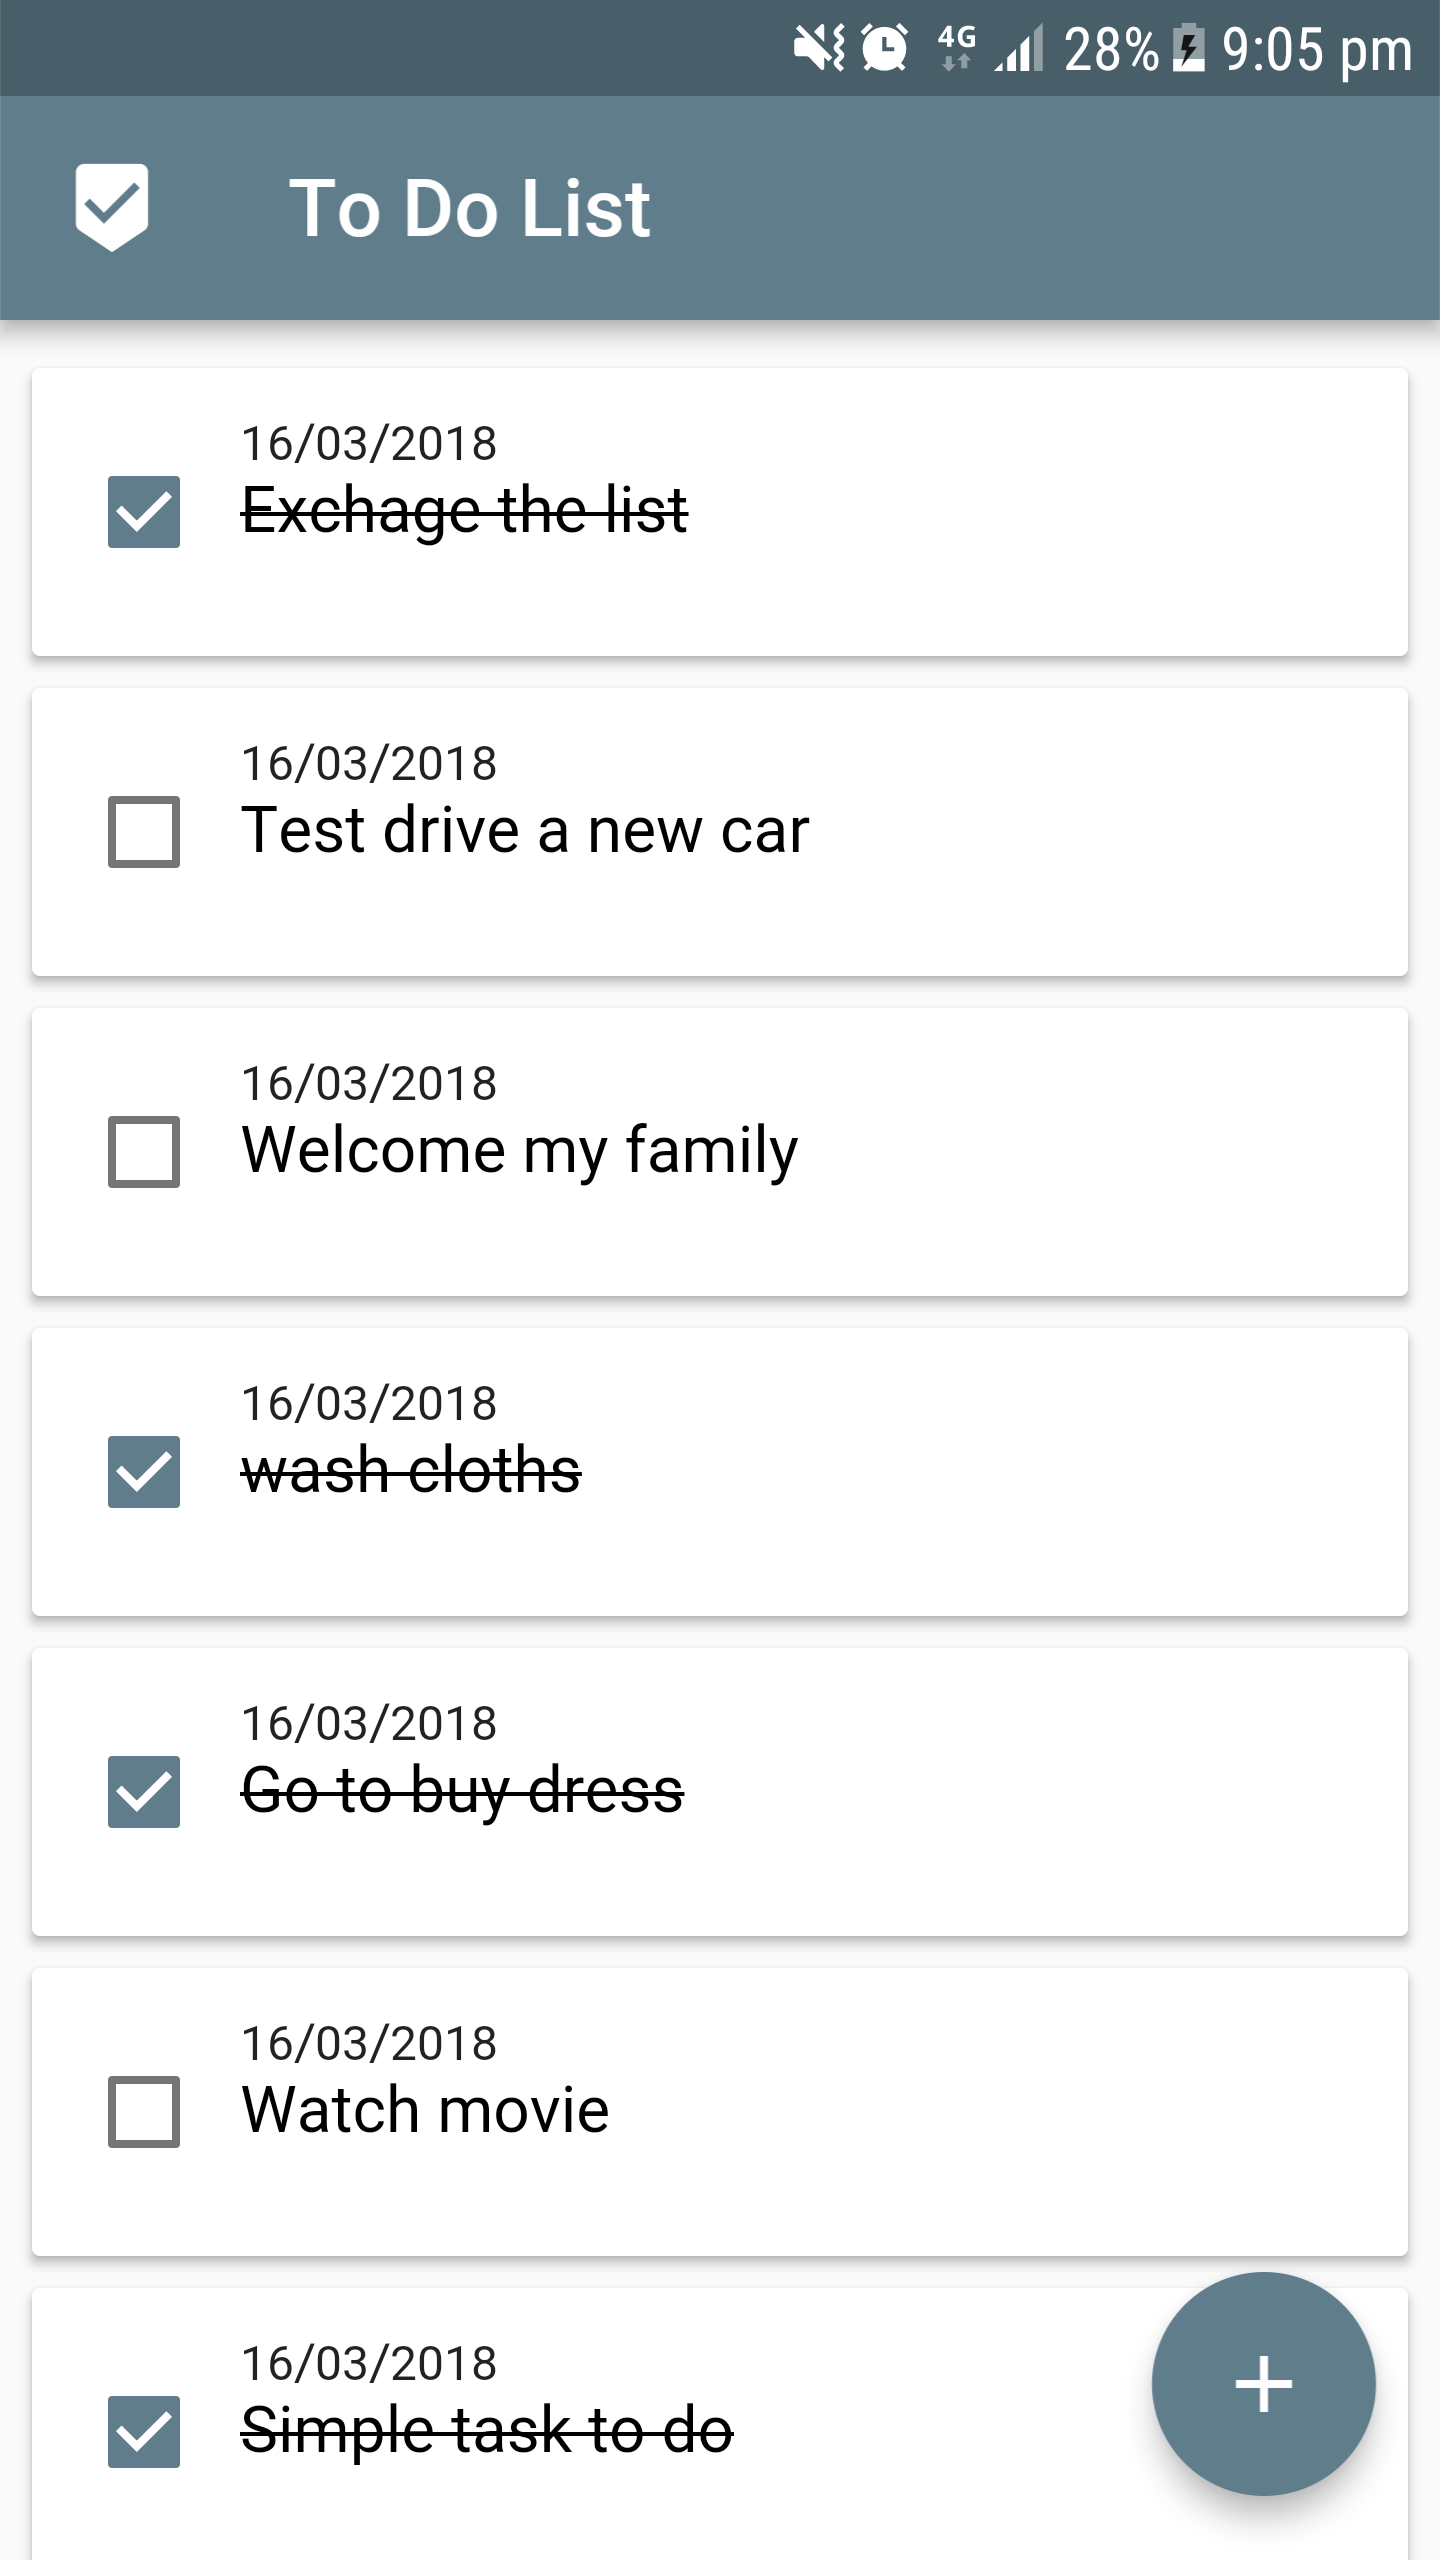
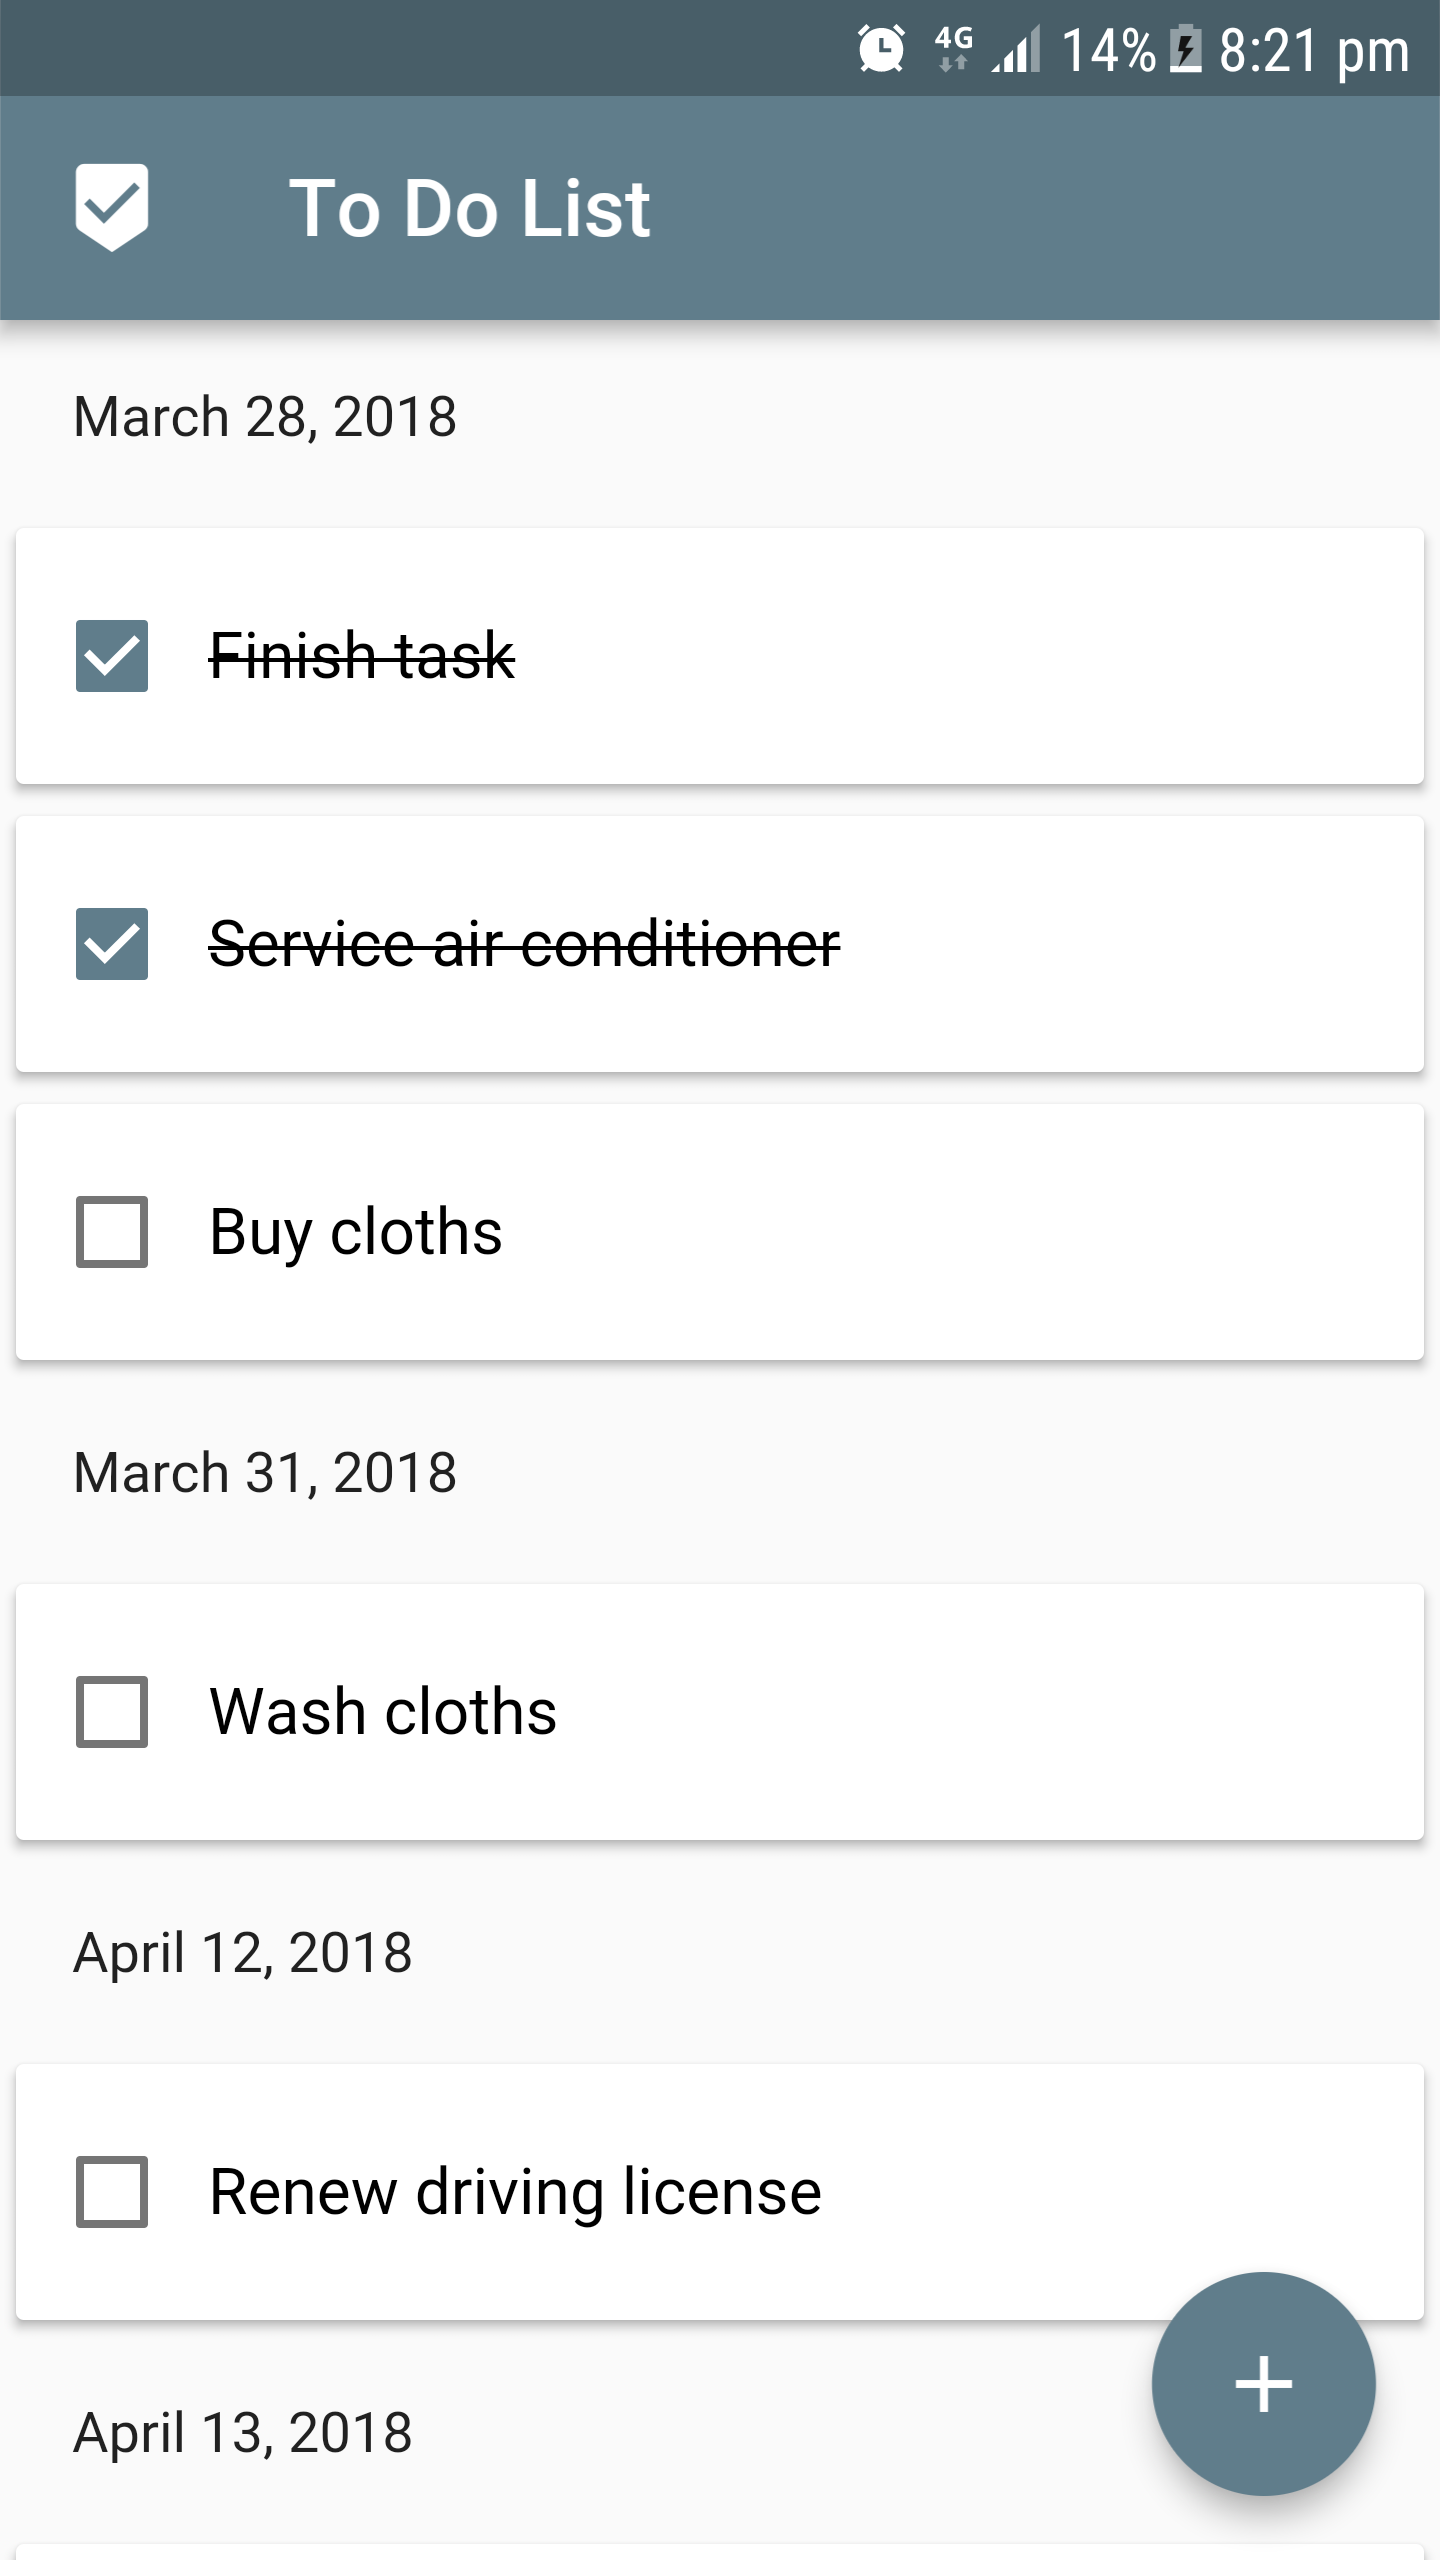
screenshot image change

diff --git a/lib/ui/todo_list.dart b/lib/ui/todo_list.dart
@@ -127,7 +127,7 @@ class TodoListState extends State<TodoList> {
 
   Widget _createListItemContent(Todo todo) {
     return new Row(
-      crossAxisAlignment: CrossAxisAlignment.start,
+      crossAxisAlignment: CrossAxisAlignment.center,
       children: <Widget>[
         _createListItemLeftContent(todo),
         _createListItemRightContent(todo)
@@ -139,9 +139,7 @@ class TodoListState extends State<TodoList> {
     return new Checkbox(
       value: todo.done,
       onChanged: (change) {
-        setState(() {
-          todo.done = change;
-        });
+        setState(() => todo.done = change);
         _todoProvider.update(todo);
       },
     );
@@ -151,7 +149,6 @@ class TodoListState extends State<TodoList> {
     return new Expanded(
         child: new Text(
           todo.note,
-          textAlign: TextAlign.start,
           style: new TextStyle(
               color: Colors.black,
               fontSize: 16.0,
